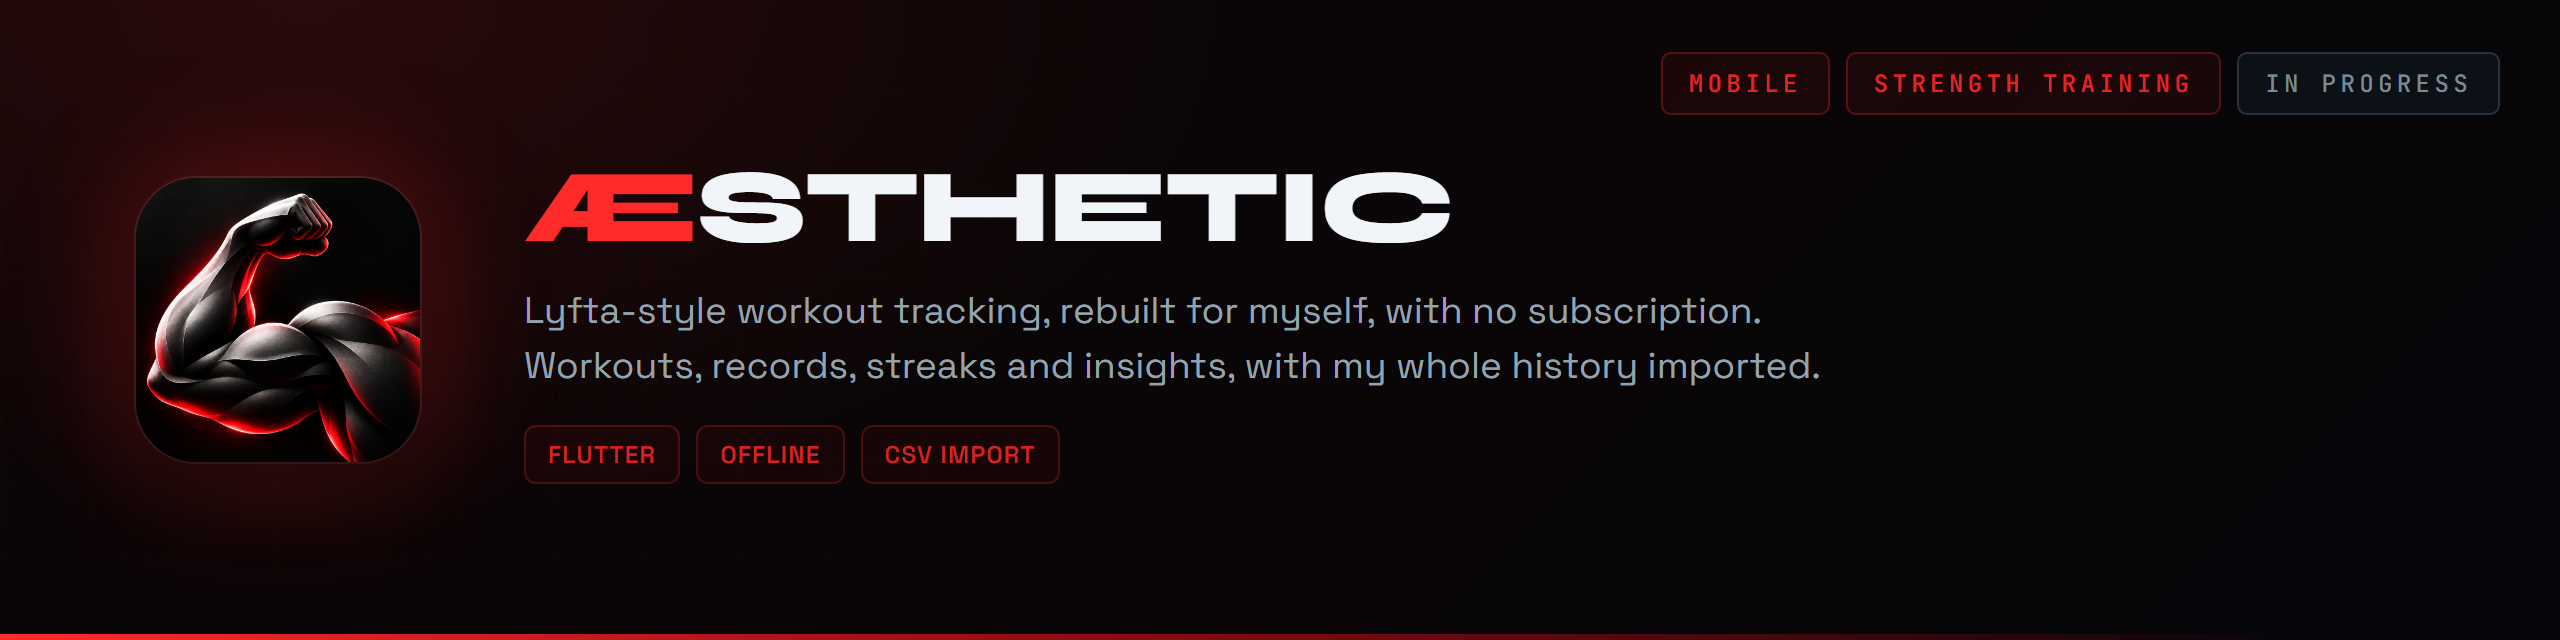
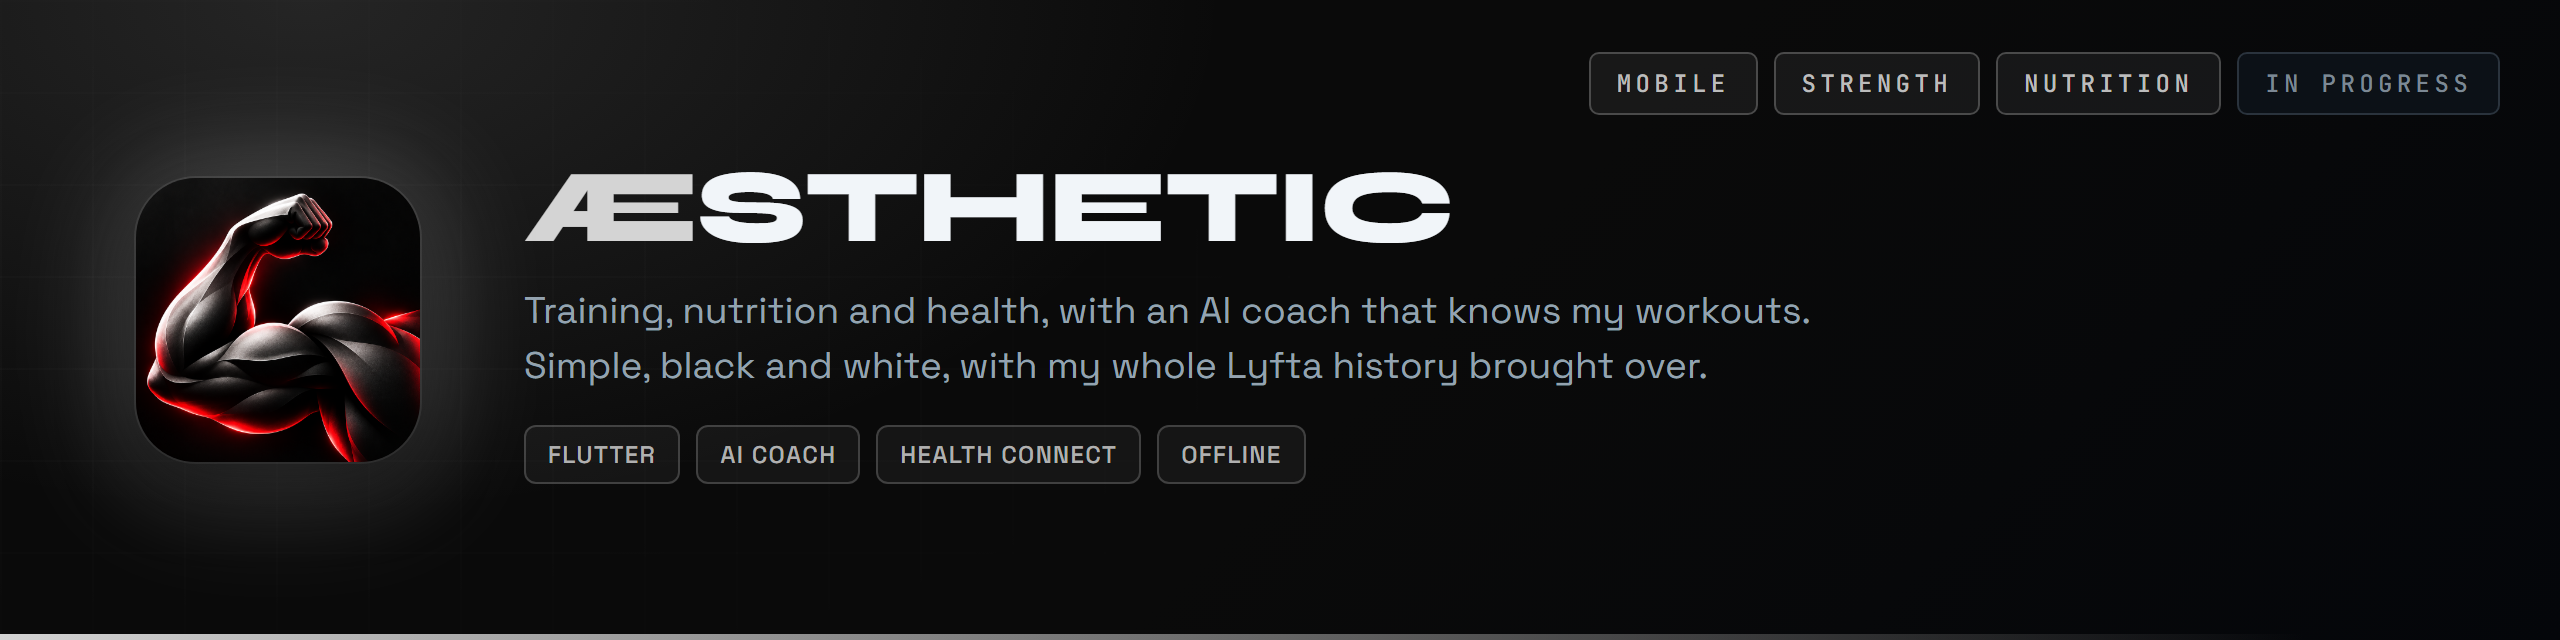
Profil : la carte d'ÆSTHETIC passe en noir et blanc
Elle suit le dépôt : musculation, nutrition, santé et coach IA, accent
gris clair au lieu du rouge.

diff --git a/README.en.md b/README.en.md
@@ -35,7 +35,7 @@ I am looking at roles in **cybersecurity**, **infrastructure**, **security opera
 
 <picture><source media="(prefers-color-scheme: light)" srcset="docs/en/clair/sections/projets.png"><img src="docs/en/sections/projets.png" alt="Projects" width="100%"></picture>
 
-<a href="https://github.com/Cybertrist/Aesthetic/blob/main/README.en.md"><picture><source media="(prefers-color-scheme: light)" srcset="docs/en/clair/projets/aesthetic.png"><img src="docs/en/projets/aesthetic.png" alt="ÆSTHETIC, mobile, strength training, in progress. Lyfta-style workout tracking, rebuilt for myself, with no subscription. Workouts, records, streaks and insights, with my whole history imported. Flutter, offline, CSV import." width="100%"></picture></a>
+<a href="https://github.com/Cybertrist/Aesthetic/blob/main/README.en.md"><picture><source media="(prefers-color-scheme: light)" srcset="docs/en/clair/projets/aesthetic.png"><img src="docs/en/projets/aesthetic.png" alt="ÆSTHETIC, mobile, strength, nutrition, in progress. Training, nutrition and health, with an AI coach that knows my workouts. Simple, black and white, with my whole Lyfta history brought over. Flutter, AI coach, Health Connect, offline." width="100%"></picture></a>
 
 <a href="https://github.com/Cybertrist/BeVannes/blob/main/README.en.md"><picture><source media="(prefers-color-scheme: light)" srcset="docs/en/clair/projets/bevannes.png"><img src="docs/en/projets/bevannes.png" alt="BeVannes, mobile, geography, photo, game. BeReal meets GeoGuessr: a spot drawn at random every day, and the photo only counts if GPS says you were there. Flutter, Firebase, geolocation." width="100%"></picture></a>
 

diff --git a/README.md b/README.md
@@ -35,7 +35,7 @@ Je m'intéresse aux postes en **cybersécurité**, **infrastructure**, **sécuri
 
 <picture><source media="(prefers-color-scheme: light)" srcset="docs/clair/sections/projets.png"><img src="docs/sections/projets.png" alt="Projets" width="100%"></picture>
 
-<a href="https://github.com/Cybertrist/Aesthetic"><picture><source media="(prefers-color-scheme: light)" srcset="docs/clair/projets/aesthetic.png"><img src="docs/projets/aesthetic.png" alt="ÆSTHETIC, mobile, musculation, en cours. Le suivi de musculation de Lyfta, refait pour moi, sans abonnement. Séances, records, streak et analyses, avec tout mon historique importé. Flutter, hors ligne, import CSV." width="100%"></picture></a>
+<a href="https://github.com/Cybertrist/Aesthetic"><picture><source media="(prefers-color-scheme: light)" srcset="docs/clair/projets/aesthetic.png"><img src="docs/projets/aesthetic.png" alt="ÆSTHETIC, mobile, musculation, nutrition, en cours. Musculation, nutrition et santé, avec un coach IA qui connaît mes séances. Simple, en noir et blanc, et tout mon historique Lyfta repris. Flutter, coach IA, Health Connect, hors ligne." width="100%"></picture></a>
 
 <a href="https://github.com/Cybertrist/BeVannes"><picture><source media="(prefers-color-scheme: light)" srcset="docs/clair/projets/bevannes.png"><img src="docs/projets/bevannes.png" alt="BeVannes, mobile, géographie, photo, jeu. BeReal rencontre GeoGuessr : un lieu tiré au sort chaque jour, et la photo ne compte que si le GPS confirme que vous y êtes. Flutter, Firebase, géolocalisation." width="100%"></picture></a>
 
